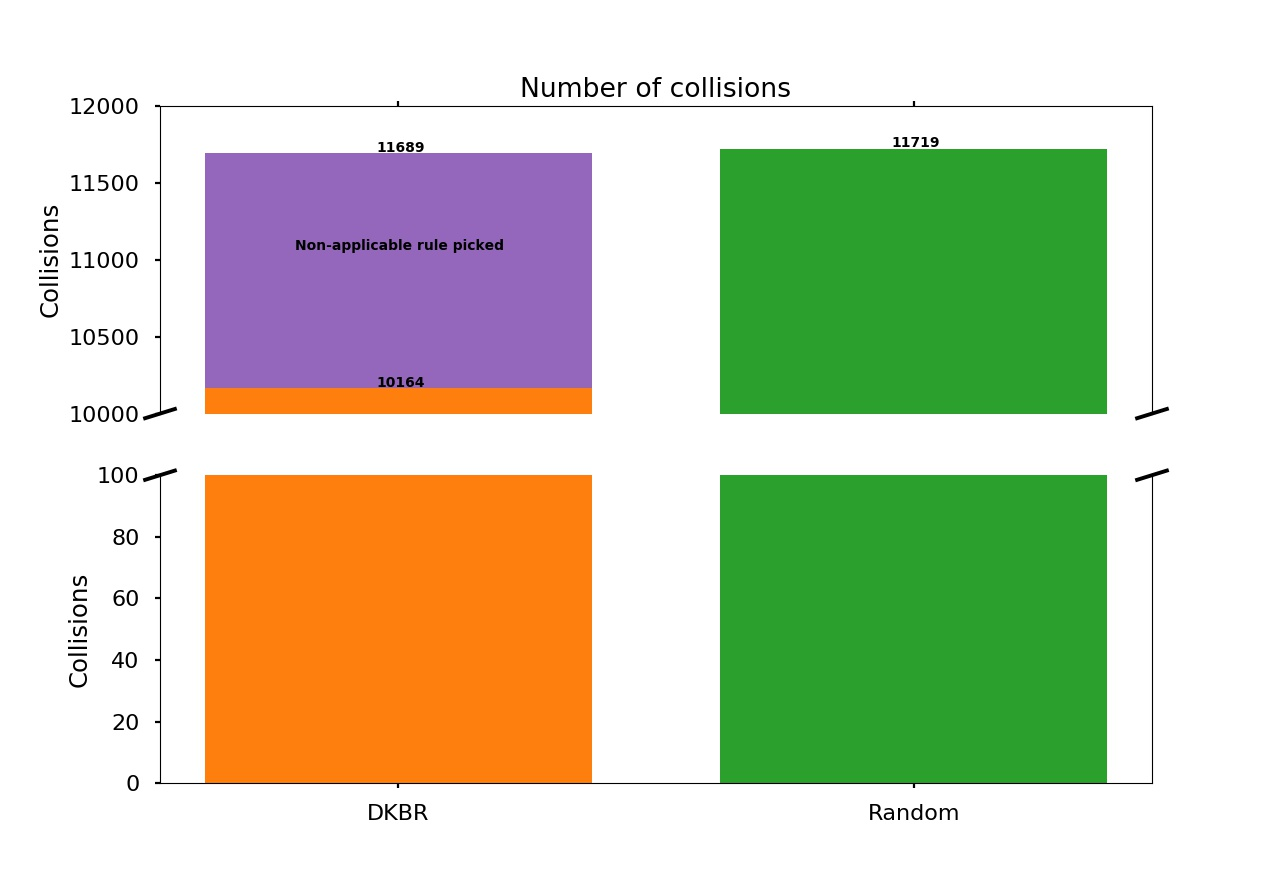
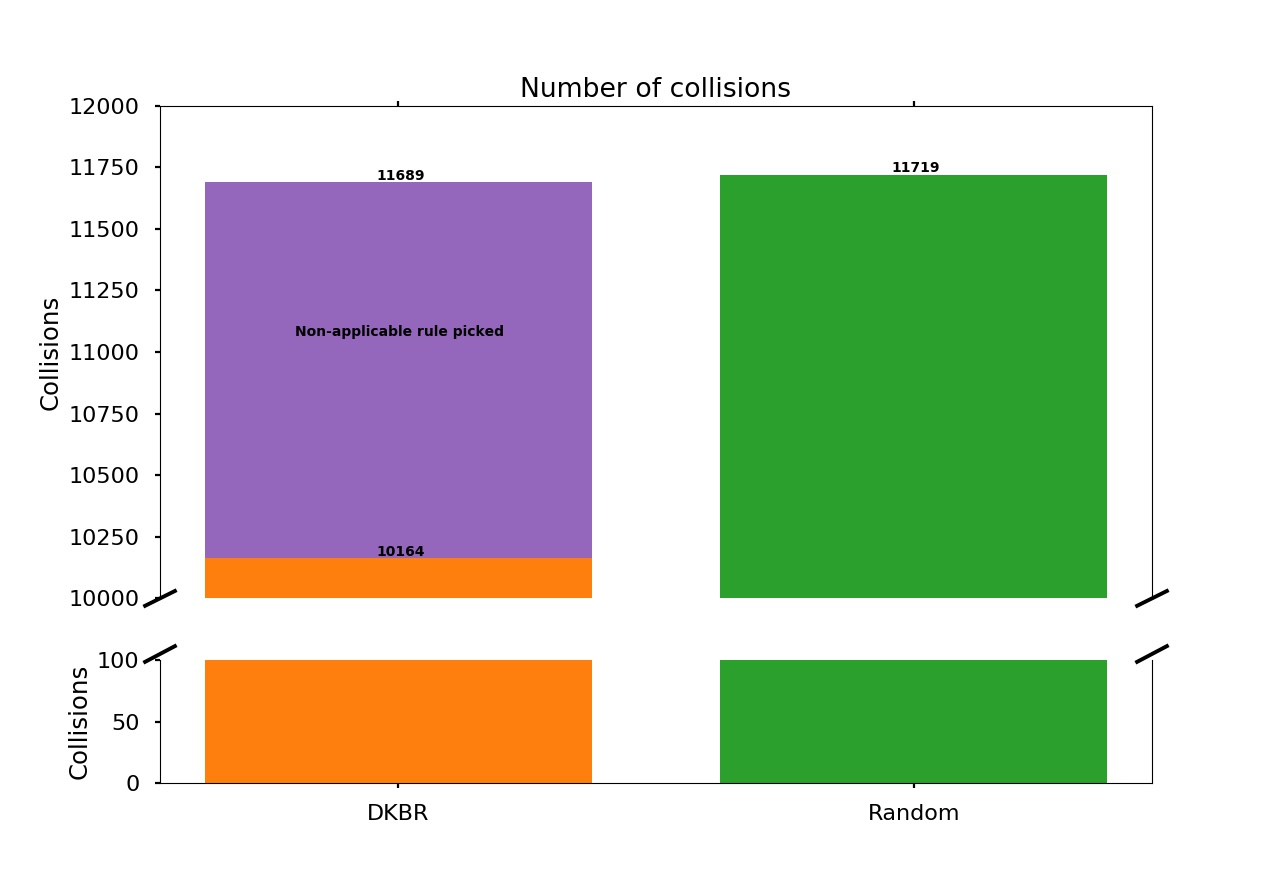
fixed bug where area could not be used in main

diff --git a/plot_result.py b/plot_result.py
@@ -112,7 +112,7 @@ difference_data[2] = np.subtract(data[0], data[2])
 #plot_markers(difference_data) # ONE OF THESE
 
 x = [1]
-f, (ax, ax2) = plt.subplots(2, 1, sharex=True)
+f, (ax, ax2) = plt.subplots(2, 1, sharex=True, gridspec_kw={'height_ratios':[4, 1]})
 
 y_DKBR = sum(tree_fail_data[1])-sum(tree_fail_data[0])
 y_misses = sum(tree_fail_data[0])
@@ -137,8 +137,8 @@ ax.plot((-d, +d), (-d, +d), **kwargs)        # top-left diagonal
 ax.plot((1 - d, 1 + d), (-d, +d), **kwargs)  # top-right diagonal
 
 kwargs.update(transform=ax2.transAxes)  # switch to the bottom axes
-ax2.plot((-d, +d), (1 - d, 1 + d), **kwargs)  # bottom-left diagonal
-ax2.plot((1 - d, 1 + d), (1 - d, 1 + d), **kwargs)  # bottom-right diagonal
+ax2.plot((-d, +d), (1 - d, 1 + 7.5*d), **kwargs)  # bottom-left diagonal
+ax2.plot((1 - d, 1 + d), (1 - d, 1 + 7.5*d), **kwargs)  # bottom-right diagonal
 
 ax.set_ylim(10000, 12000)  # outliers only
 ax2.set_ylim(0, 100)

diff --git a/functions.py b/functions.py
@@ -22,18 +22,18 @@ def get_x_vector_from_state_first(state):
 		x_vector.append(agent.pos.id)
 	return x_vector
 
-def get_x_vector_from_state_area(state):
+def get_x_vector_from_state_area(state, graph):
 	x_vector = []
 	agent1 = state.agent1
 	agent2 = state.agent2
 
-	area_for_agent(x_vector, agent1, agent2, state.agents)
-	area_for_agent(x_vector, agent2, agent1, state.agents)
+	area_for_agent(x_vector, agent1, agent2, state.agents, graph)
+	area_for_agent(x_vector, agent2, agent1, state.agents, graph)
 
 
 	return x_vector
 
-def area_for_agent(x_vector, agent1, agent2, agents):
+def area_for_agent(x_vector, agent1, agent2, agents, graph):
 	neighbours = [(-1,-1),(-1,0),(-1,1),(0,-1),(0,1),(1,-1),(1,0),(1,1)]
 	for (i,j) in neighbours:
 

diff --git a/DecisionTree.py b/DecisionTree.py
@@ -61,7 +61,7 @@ class DecisionTree(object):
 		print("Tree overfit score is %.3f" % (self.tree.score(train_x, train_y)))
 
 
-	def get_rule(self, state):
+	def get_rule(self, state, graph):
 		x = []
 		if self.file_type == "first":
 			x = get_x_vector_from_state_first(state)
@@ -70,7 +70,7 @@ class DecisionTree(object):
 		elif self.file_type == "coordinates_small":
 			x = get_x_vector_from_state_coordinates_small(state)
 		elif self.file_type == "area":
-			x = get_x_vector_from_state_area(state)
+			x = get_x_vector_from_state_area(state, graph)
 
 		prediction = int(self.tree.predict([x])[0])
 		return prediction

diff --git a/main.py b/main.py
@@ -39,7 +39,7 @@ def main():
 	#file_name = "all_first.txt"
 	file_name = "all_coordinates.input"
 	#file_name3 = "all_coordinates_small.txt"
-	#file_name4 = "all_area.txt"
+	#file_name4 = "all_area.input"
 	dec_tree = DecisionTree(file_name, file_type="coordinates")
 	#dec_tree2 = DecisionTree(file_name2)
 	#dec_tree3 = DecisionTree(file_name3)
@@ -135,7 +135,7 @@ def main():
 	item_size_file = open("item_size_2.txt", 'w')
 	write_line_to_file(input_size_items, item_size_file)
 	write_line_to_file(input_size_orders, item_size_file)
-	
+
 	item_size_file.close()
 
 	tree_fail_file = open("tree_fail_file_2.txt", 'w')

diff --git a/Simulation.py b/Simulation.py
@@ -159,7 +159,7 @@ class Simulation(object):
         return None, self.cost, done
 
     def apply_tree_rule(self, state):
-        rule = self.dec_tree.get_rule(state)
+        rule = self.dec_tree.get_rule(state, self.graph)
         ok, new_path1, new_path2 = self.can_apply_rule(state, rule)
         if ok:
             self.apply_rule(state, rule, new_path1, new_path2)
